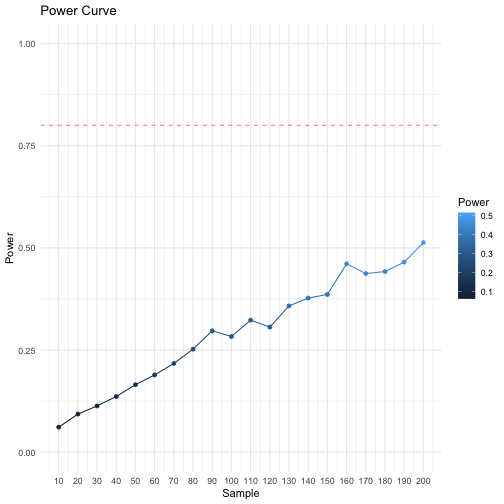
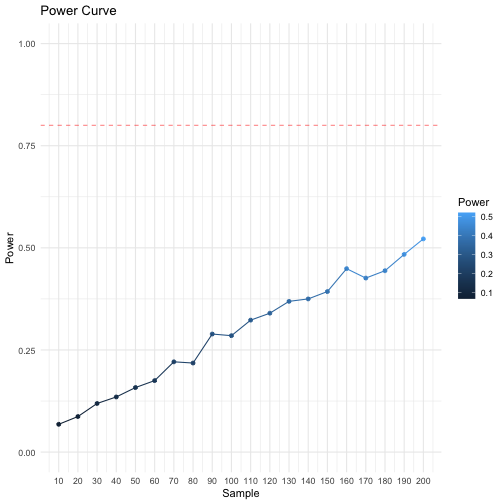
updates

diff --git a/pres.html b/pres.html
@@ -596,6 +596,7 @@ The plot shows we need more than **200** participants per group to achieve a pow
 .pull-right[
 
 ```r
+set.seed(1)
 sample_sizes = c(10, 20, 30, 40, 50, 60, 70, 80, 90, 100, 
                  110, 120, 130, 140, 150, 160, 170, 180, 190, 200)
 
@@ -622,6 +623,7 @@ Yikes.
 .pull-right[
 
 ```r
+set.seed(1)
 sample_sizes = c(25, 50, 75, 100,
                  125, 150, 175, 200,
                  225, 250, 275, 300,
